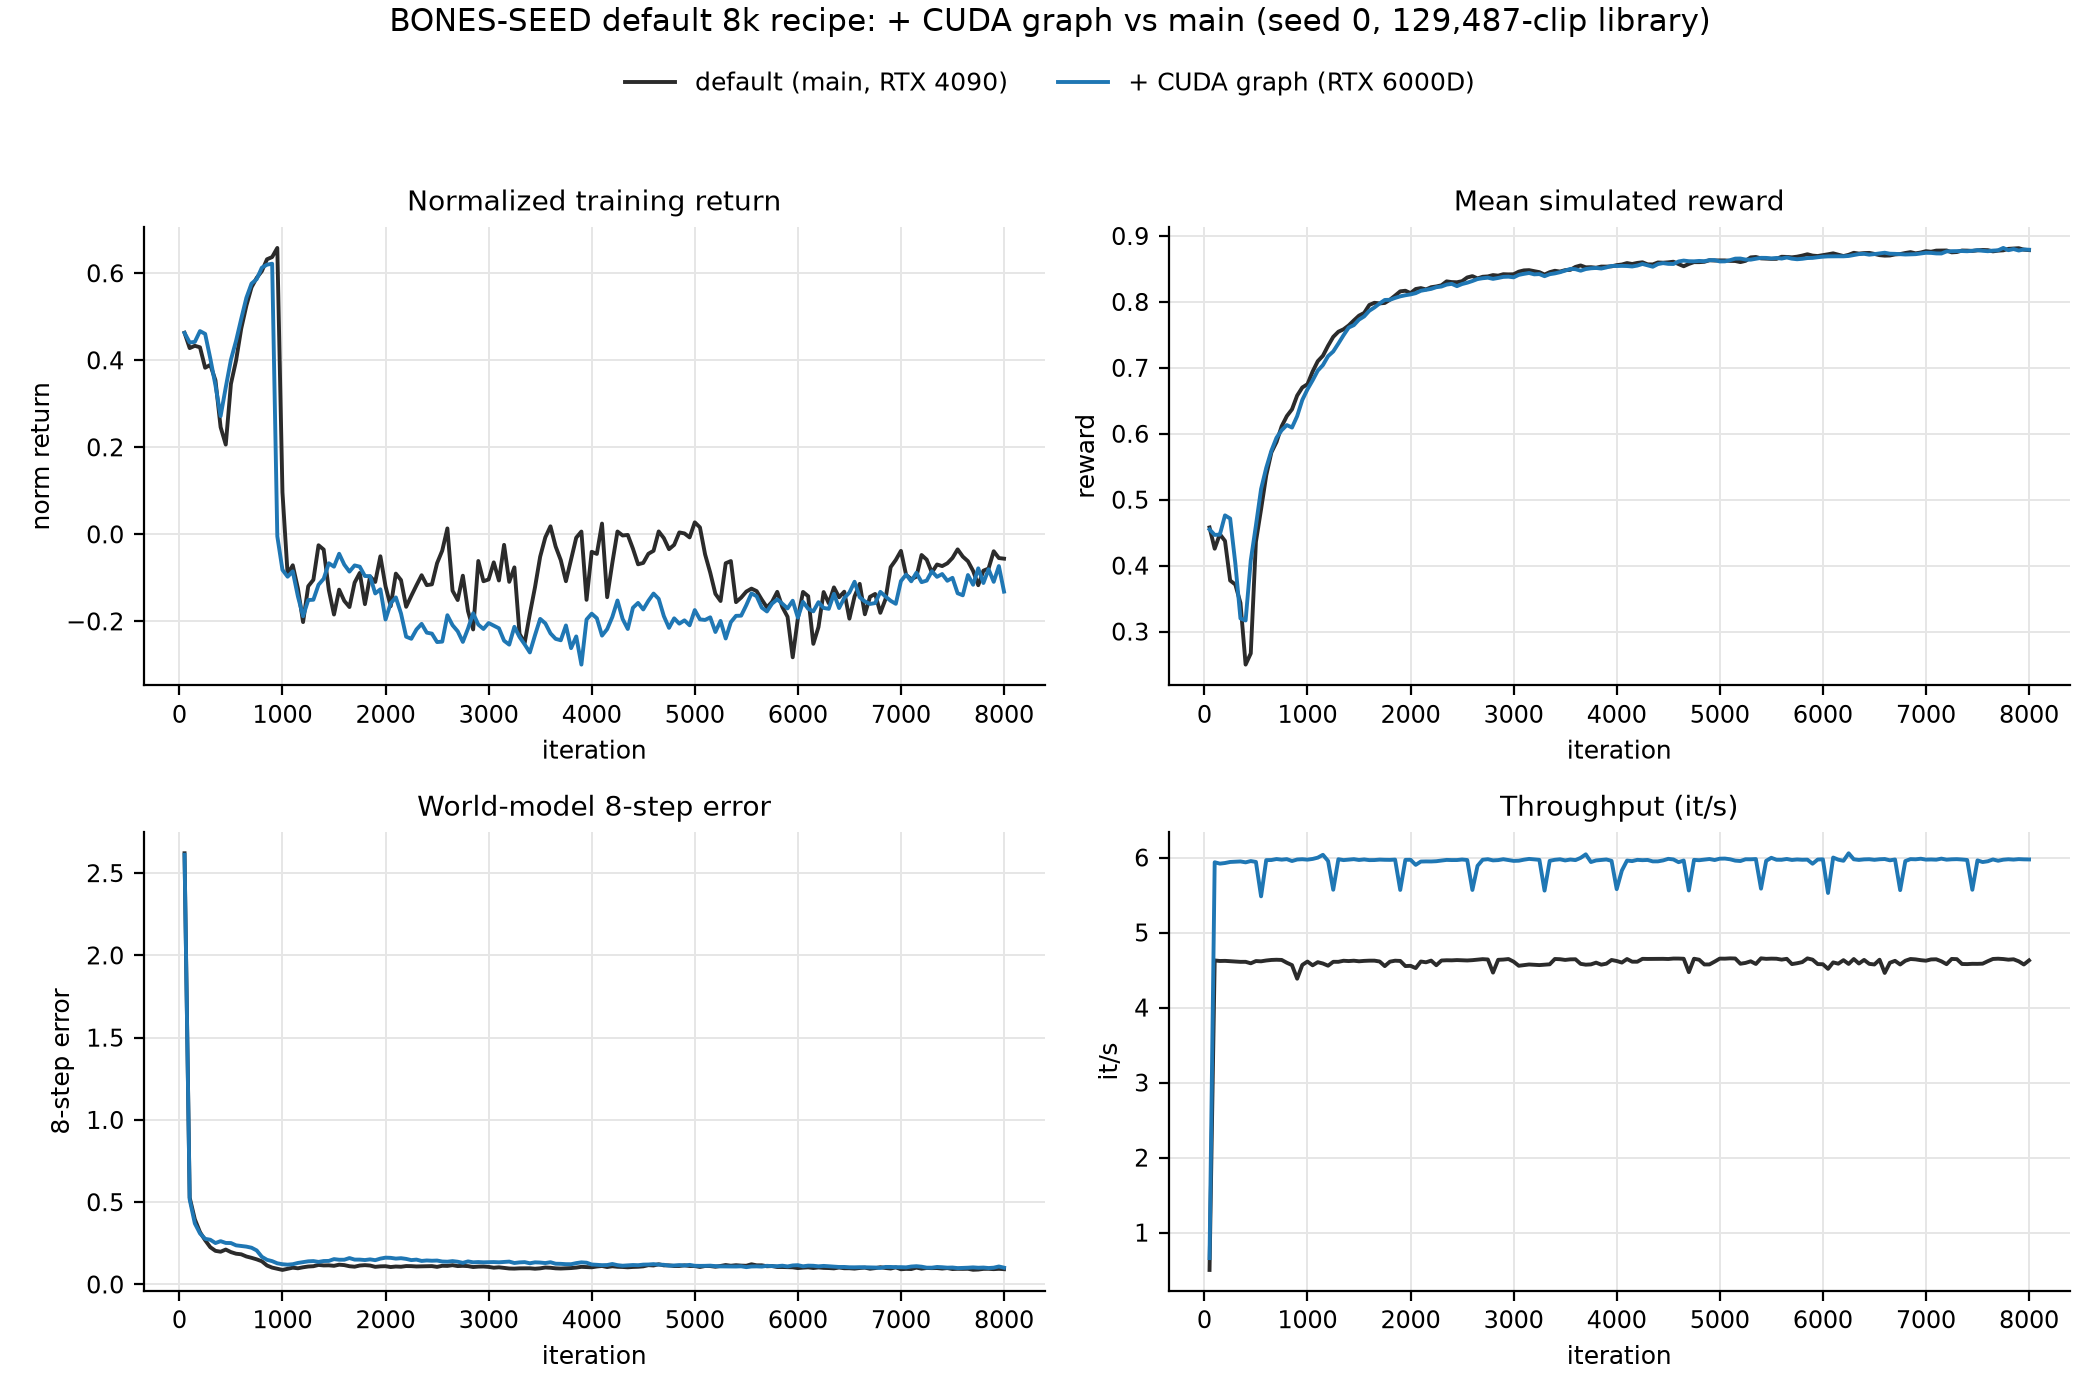
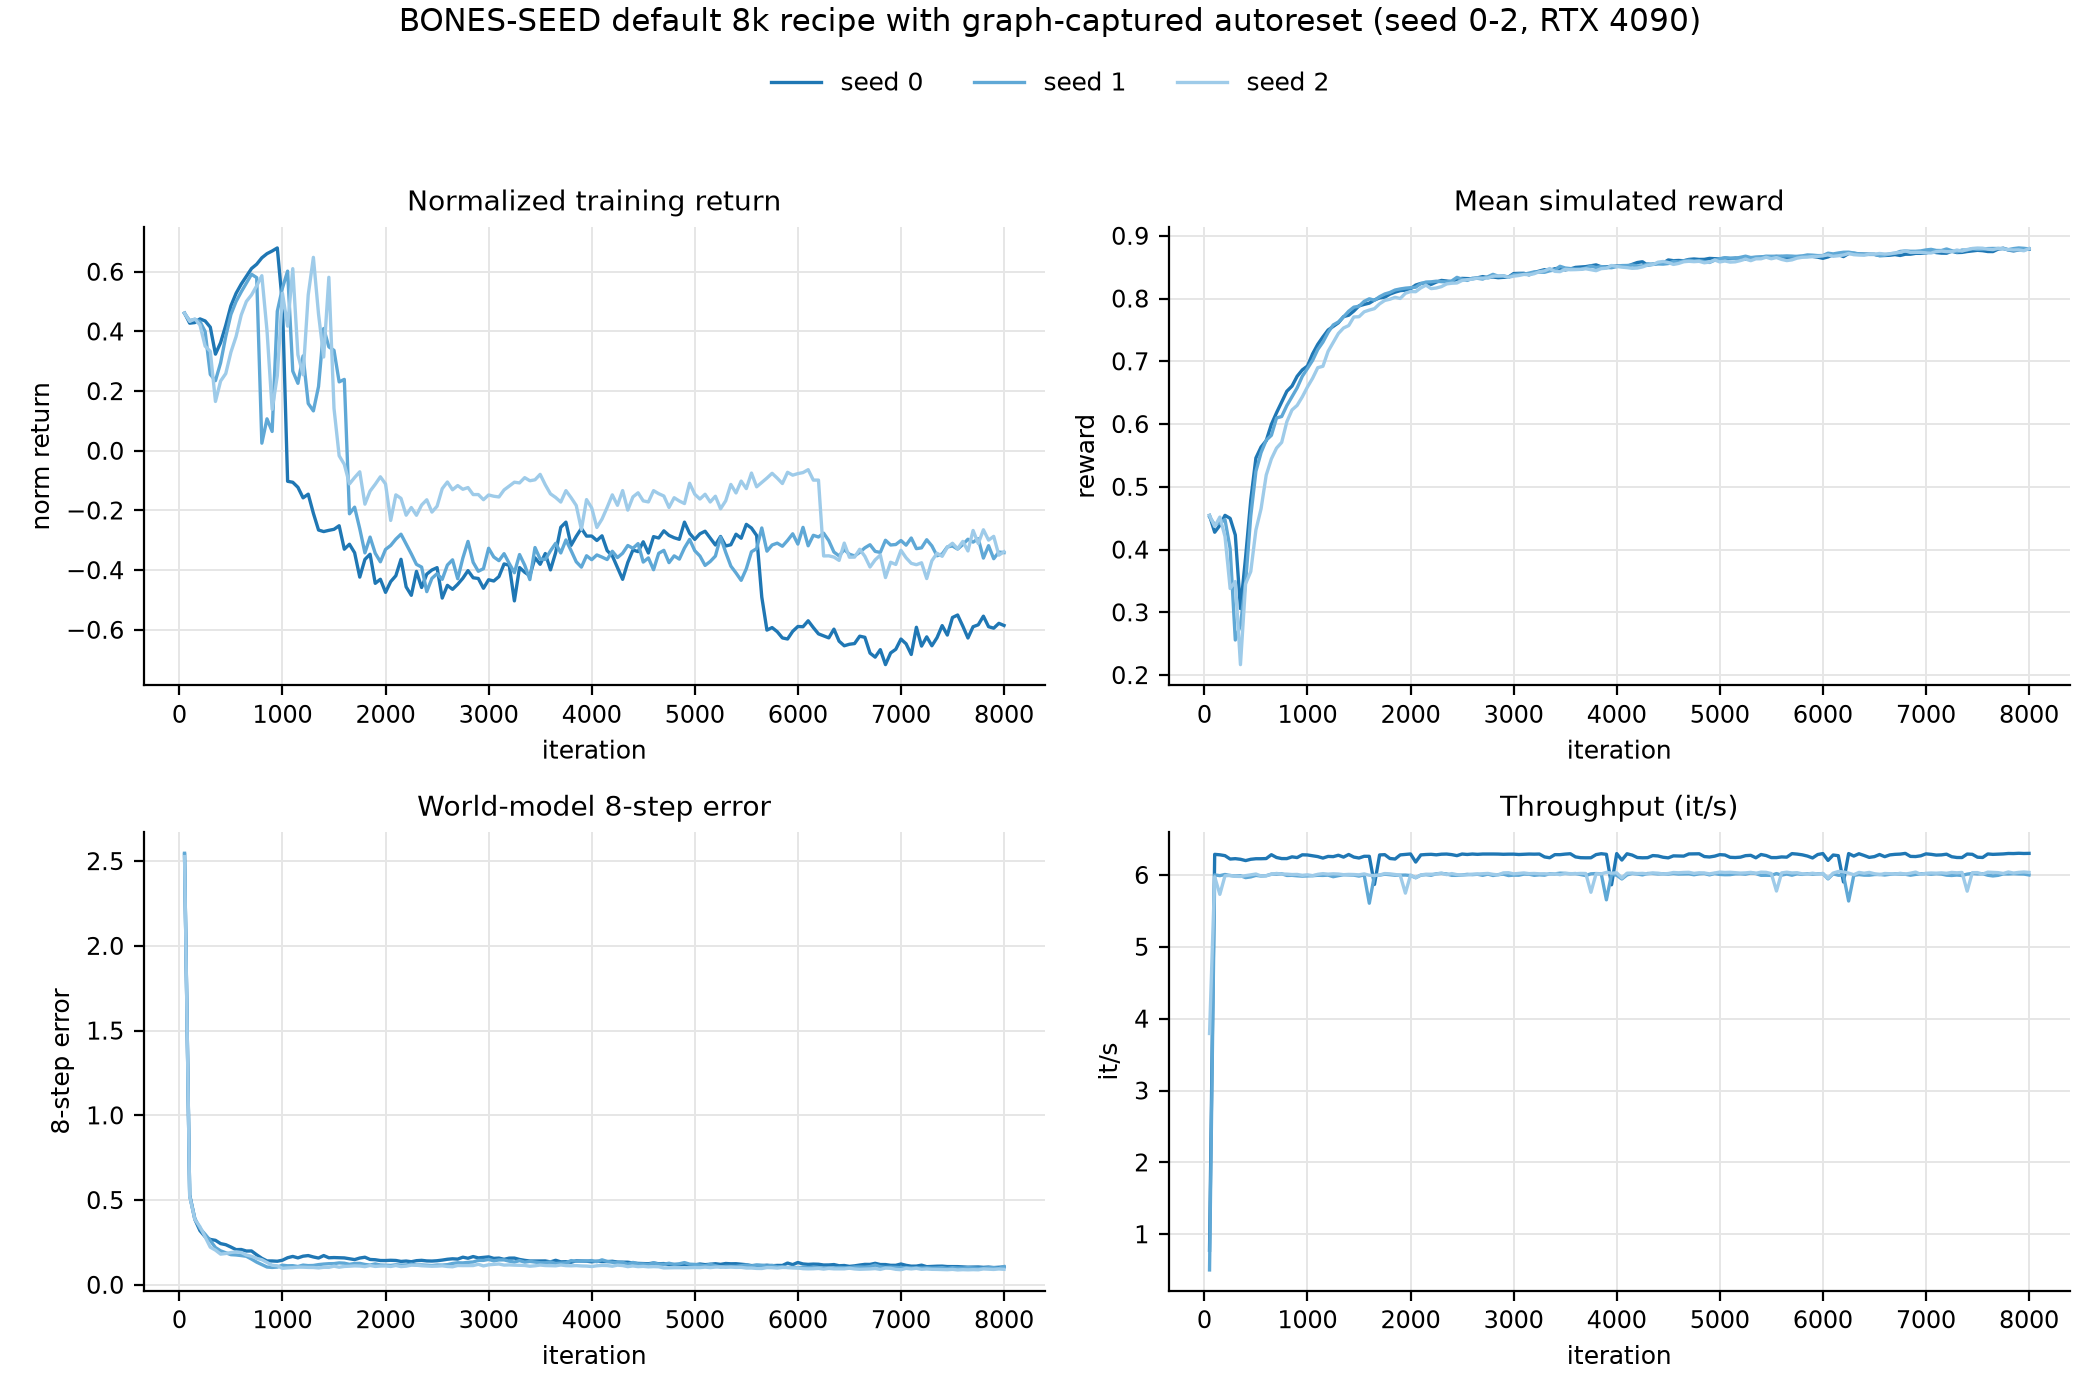
docs: README reports the graph-captured recipe on its own (3 seeds, 4090)
- Results shows only the default 8k recipe with env.autoreset_cuda_graph:
  per-seed and mean rows (0.9322 / 228 failed / 99.82% success / 22.3 min
  on one RTX 4090), no in-repo comparison tables
- time_comparison figure keeps a single UniSuperMimic row (cross-project
  comparison only); curves and eval bars are 3-seed presentations
- Highlights and badge updated to the 22-minute / unilab 1.6.0 numbers

diff --git a/README.md b/README.md
@@ -8,7 +8,7 @@
   <a href="https://arxiv.org/abs/2610.28480"><img src="https://img.shields.io/badge/paper-arXiv--2610.28480-red" alt="Paper"></a>
   <a href="https://pypi.org/project/unilab/"><img src="https://img.shields.io/pypi/v/unilab" alt="UniLab PyPI"></a>
   <a href="#results"><img src="https://img.shields.io/badge/BONES--SEED-129%2C487%20clips-blue" alt="BONES-SEED: 129,487 clips"></a>
-  <a href="#results"><img src="https://img.shields.io/badge/single%20GPU-%7E24%20min-green" alt="Single GPU: about 24 minutes"></a>
+  <a href="#results"><img src="https://img.shields.io/badge/single%20GPU-%7E22%20min-green" alt="Single GPU: about 22 minutes"></a>
   <a href="LICENSE"><img src="https://img.shields.io/badge/license-Apache--2.0-blue" alt="Apache-2.0 License"></a>
 </p>
 
@@ -17,7 +17,7 @@ UniSuperMimic is an independent downstream reproduction of [SuperMimic](https://
 ### Highlights
 
 - **BONES-SEED at scale**: download, convert, filter, pack, train on, and deterministically evaluate a 129,487-clip / 47.3M-frame motion library from one repository.
-- **Graph-captured fixed-shape autoreset**: unilab 1.6.0rc1 pins body-packet storage across resets and publishes caller-owned step outputs, so the reset segment runs as a replayed CUDA graph — the default 8,000-iteration BONES-SEED recipe trains in **about 24 minutes on one GPU** with evaluation parity (0.9310 vs 0.9320 full-library norm return).
+- **Graph-captured fixed-shape autoreset**: unilab 1.6.0 pins body-packet storage across resets and publishes caller-owned step outputs, so the reset segment runs as a replayed CUDA graph — the default 8,000-iteration BONES-SEED recipe trains in **about 22 minutes on one RTX 4090** (mean of 3 seeds: 0.9322 full-library norm return, 99.82% clip success rate).
 - **Single-GPU efficiency**: mjwarp, MuJoCo, and Motrix all support an efficient one-GPU workflow; learner throughput reaches ~6 it/s with the graph-captured autoreset chain.
 - **Three simulation backends**: switch between mjwarp, MuJoCo, and Motrix without changing the policy or dataset configuration.
 
@@ -265,20 +265,22 @@ Previous result tables and ablations (LAFAN1, the 12000-iteration BONES-SEED run
 
 ### BONES-SEED default recipe with graph-captured autoreset (8000 iterations)
 
-The default recipe trains with unilab 1.6.0rc1's fixed-shape autoreset chain enabled through the single `env.autoreset_cuda_graph` switch: masked autoreset, persistent step buffers, deferred finite validation, and reset-segment CUDA graph capture on top of the task-side fixed-address state-publication carriers. Deterministic evaluation keeps the selected-row reset lifecycle, so the evaluation contract is unchanged.
+The default recipe trains with unilab 1.6.0's fixed-shape autoreset chain enabled through the single `env.autoreset_cuda_graph` switch: masked autoreset, persistent step buffers, deferred finite validation, and reset-segment CUDA graph capture on top of the task-side fixed-address state-publication carriers. Deterministic evaluation keeps the selected-row reset lifecycle, so the evaluation contract is unchanged.
 
-Seed-0 runs with mjwarp, 4096 environments, and the complete 129,487-clip library; deterministic full-library evaluation with 16,384 environments from frame zero without noise:
+Three seeds (mjwarp, 4096 environments, one RTX 4090, the complete 129,487-clip library); deterministic full-library evaluation with 16,384 environments from frame zero without noise. A failed clip is one whose rollout hard-terminates (falls) before the clip ends — the SuperMimic-family protocol:
 
-| policy (8000 iterations) | norm return | frame-weighted | failed clips | success rate | learner wall |
+| seed | norm return | frame-weighted | failed clips | success rate | learner wall |
 |---|---:|---:|---:|---:|---:|
-| default recipe (main) | 0.9320 | 0.9279 | 202 | 99.84% | 0.54 h |
-| **default + CUDA graph (this branch)** | **0.9310** | 0.9263 | 218 | 99.83% | **0.39 h** |
+| 0 | 0.9325 | 0.9285 | 186 | 99.86% | 0.371 h |
+| 1 | 0.9320 | 0.9276 | 289 | 99.78% | 0.373 h |
+| 2 | 0.9321 | 0.9281 | 210 | 99.84% | 0.373 h |
+| **mean of 3 seeds** | **0.9322** | **0.9281** | **228** | **99.82%** | **0.372 h (22.3 min)** |
 
-![Evaluation bars: full-library norm return, failed clips, and learner wall time](docs/assets/graph8k_eval_bars.png)
+Steady-state learner throughput is ~6.2 it/s; the 8,000-iteration run fits in about 22 minutes on a single RTX 4090.
 
-Learning quality is unchanged — the return difference is 0.001 and the failed-clip difference is 16/129,487 (0.012%), both within seed noise; the masked lifecycle draws RNG on steps without a done row, so same-seed trajectories differ by construction. Training wall time drops **27%** on the same RTX 6000D (5.97 vs ~4.1 it/s steady-state throughput).
+![Evaluation bars: full-library norm return, failed clips, and learner wall time per seed](docs/assets/graph8k_eval_bars.png)
 
-![Training curves: + CUDA graph vs main](docs/assets/graph8k_curves.png)
+![Training curves for the three seeds](docs/assets/graph8k_curves.png)
 
 Reproduce with no overrides after building the library:
 
